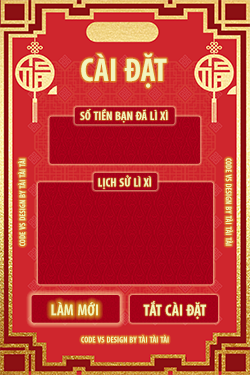
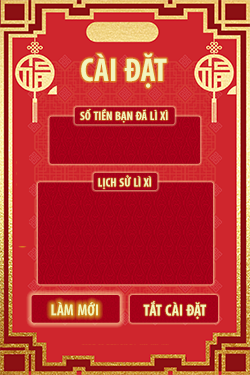
edit rule vong quay

Changed region(s): [[0.308, 0.88, 0.7, 0.9387], [0.896, 0.4107, 0.952, 0.6747], [0.056, 0.4107, 0.112, 0.6747]]

diff --git a/index.html b/index.html
@@ -10,7 +10,7 @@
    <head>
       <meta http-equiv="Content-Type" content="text/html; charset=utf-8">
       <meta name="viewport" content="width=device-width, initial-scale=1">
-      <title>Vòng quay lì xì 2020 by GrouSrlpPrsc</title>
+      <title>Vòng quay lì xì 2023</title>
       <link rel='stylesheet' href='https://fonts.googleapis.com/css?family=Francois+One&amp;display=swap'>
       <link rel='stylesheet' href='css/sweetalert.css'>
       <link rel='stylesheet' href='css/custom.css'>
@@ -23,9 +23,10 @@
   <div class="before" style="z-index: 9999"></div>
   <div class="after"></div>
 </div>
-   <body onload="nhappass()">
+  <body>
+   <!-- <body onload="nhappass()"> -->
       <div class="topheader">
-         <img class="responsive" style="z-index:99;top:50px;" src="img/hea2.png"/>
+         <img width="250" height="250" class="responsive" style="z-index:99;top:30px;" src="img/header11.png"/>
       </div>
 
       <div id="caidat">
@@ -33,14 +34,14 @@
       <div class="sotiendalixi" id="sotiendalixi"></div>
       <div class="lichsulixi" id="lichsulixi"></div>
       <div class="buttontatpopup" onClick="tatpopup()" ></div>
-      <div class="buttonlammoi" id="lammoi" onClick="lammoi()"></div>
+      <div class="buttonlammoi" id="lammoi" onClick="lammoiHandle()"></div>
       <div class="nenpopup"></div>
       </div>
 
       <div id="popupnhantien">
       <img id="popuptien"src="img/popupnhantien.png"/>
       <div class="sotienpopupnhantien" id="sotienpopupnhantien"><img id="xuatsotienpopup"></img></div>
-      <div class="lammoipopupnhantien" id="lammoi" onClick="lammoi()"></div>
+      <div class="lammoipopupnhantien" id="lammoi" onClick="lammoiHandle()"></div>
       <div class="nenpopup"></div>
       </div>
 
@@ -52,20 +53,20 @@
       </div>
 
       <img class="responsive2" style="position:fixed;z-index:99;top:0px;right:0px" src="img/hea1.png"/>
-      <div style="position:fixed;z-index:99;bottom:-50px;left:0;width:100%;height:500px;background:url(img/bot1.png) repeat-x bottom left;"></div>
-      <img class="responsive3" style="position:fixed;z-index:99;bottom:20px;left:20px" src="img/bot2.png"/>
-      <div class="nutcaidat" style="position:fixed;bottom:0px;left:20px" onClick="mopopup()"></div>
+      <div style="display:none;position:fixed;z-index:99;bottom:-50px;left:0;width:100%;height:500px;background:url(img/bot1.png) repeat-x bottom left;"></div>
+      <img class="responsive3" style="position:fixed;z-index:99;bottom:50px;left:20px;" src="img/cat4_4.png"/>
+      <div class="nutcaidat" style="display:none;position:fixed;bottom:0px;left:20px" onClick="mopopup()"></div>
       <input type="range" id="manhornhe" style="position:fixed;bottom:2px;right:20px;z-index: 999" onchange="laypower()" min="5" step="0.01" max="20" value="13">
 
-      <img style="position:fixed;z-index:99;top:2px;left:1px" src="img/banglixi.png"/>
+      <img style="position:fixed;z-index:99;top:2px;left:1px;display:none" src="img/banglixi.png"/>
       <div id="annhantien" style="display: none;">
       <img class="buttonnhantien" style="position:fixed;z-index:99;top:153px;left:1px;cursor: pointer;" src="img/nhantien.png" onclick="nhantien()" />
       <img style="position:fixed;z-index:99;top:183px;left:24px;" src="img/muiten.gif"/>
       </div>
 
-      <div style="position:fixed;z-index:999;top:37px;left:40px;text-shadow: 2px 2px 5px #f7ff29;color: #f2f4be;" id="xuatluotquay"></div>
+      <div style="display:none;position:fixed;z-index:999;top:37px;left:40px;text-shadow: 2px 2px 5px #f7ff29;color: #f2f4be;" id="xuatluotquay"></div>
 
-      <img style="position:fixed;z-index:999;top:105px;left:9px" id="xuatsotien"></img>
+      <img style="display:none;position:fixed;z-index:999;top:105px;left:9px" id="xuatsotien"></img>
 
       <audio id="votay"><source src="sound/votay.mp3" type="audio/mpeg"></audio>
       <audio id="matluot"><source src="sound/matluot.mp3" type="audio/mpeg"></audio>
@@ -73,7 +74,7 @@
        
    </body>
    <script>
-    var matkhau = "mycode";
+    var matkhau = "";
     var solanquay = 5;
       // Sau khi load trang sẽ yêu cầu nhập mật khẩu
       function nhappass() {
@@ -140,58 +141,82 @@ $( ".lammoipopupnhantien" ).hover(
       let theWheel = new Winwheel({
           'outerRadius': 220, // Bán kính ngoài
           'innerRadius': 0, // Size lỗ trung tâm
-          'textFontSize': 24, // Size chữ
+          'textFontSize': 12, // Size chữ
           'textOrientation': 'horizontal', // Chữ nằm ngang
           'textAlignment': 'outer', // Căn chỉnh văn bản ra bên ngoài bánh xe.
-          'numSegments': 8, // Số ô
+          'numSegments': 12, // Số ô
           'responsive': true,
           'segments': [{
-              'fillStyle': '#910f06',
-              'text': 'Ô mất lượt',
-              'size': winwheelPercentToDegrees(24),
-              'textFontSize': 30,
-              'textFillStyle': '#ffffff'
-          }, {
-              'fillStyle': '#ab6f03',
-              'text': '1.000 VNĐ',
-              'size': winwheelPercentToDegrees(20),
-              'textFontSize': 28,
-              'textFillStyle': '#ffffff'
-          }, {
-              'fillStyle': '#910f06',
-              'text': '2.000 VNĐ',
-              'size': winwheelPercentToDegrees(15),
-              'textFontSize': 26,
-              'textFillStyle': '#ffffff'
-          }, {
-              'fillStyle': '#ab6f03',
-              'text': '5.000 VNĐ',
-              'size': winwheelPercentToDegrees(15),
-              'textFontSize': 24,
-              'textFillStyle': '#ffffff'
-          }, {
-              'fillStyle': '#910f06',
-              'text': '10.000 VNĐ',
-              'size': winwheelPercentToDegrees(12),
-              'textFontSize': 22,
-              'textFillStyle': '#ffffff'
-          }, {
-              'fillStyle': '#ab6f03',
-              'text': '20.000 VNĐ',
-              'size': winwheelPercentToDegrees(10),
-              'textFontSize': 20,
-              'textFillStyle': '#ffffff'
-          }, {
-              'fillStyle': '#910f06',
+              'fillStyle': '#33BEFF',
               'text': '50.000 VNĐ',
-              'size': winwheelPercentToDegrees(3),
-              'textFontSize': 18,
+              'size': winwheelPercentToDegrees(8.5),
+              'textFontSize': 25,
+              'textFillStyle': '#ffffff'
+          },{
+            'fillStyle': '#33BEFF',
+              'text': '50.000 VNĐ',
+              'size': winwheelPercentToDegrees(8.5),
+              'textFontSize': 25,
+              'textFillStyle': '#ffffff'
+          },{
+            'fillStyle': '#33BEFF',
+              'text': '50.000 VNĐ',
+              'size': winwheelPercentToDegrees(8.5),
+              'textFontSize': 25,
+              'textFillStyle': '#ffffff'
+          },{
+            'fillStyle': '#33BEFF',
+              'text': '50.000 VNĐ',
+              'size': winwheelPercentToDegrees(8.5),
+              'textFontSize': 25,
               'textFillStyle': '#ffffff'
           }, {
-              'fillStyle': '#ab6f03',
-              'text': '100.000 VNĐ',
-              'size': winwheelPercentToDegrees(3),
-              'textFontSize': 16,
+            'fillStyle': '#33BEFF',
+              'text': '50.000 VNĐ',
+              'size': winwheelPercentToDegrees(8.5),
+              'textFontSize': 25,
+              'textFillStyle': '#ffffff'
+          },{
+              'fillStyle': '#910f06',
+              'text': '500.000 VNĐ',
+              'size': winwheelPercentToDegrees(7.5),
+              'textFontSize': 25,
+              'textFillStyle': '#ffffff'
+          },{
+            'fillStyle': '#33BEFF',
+              'text': '50.000 VNĐ',
+              'size': winwheelPercentToDegrees(8.5),
+              'textFontSize': 25,
+              'textFillStyle': '#ffffff'
+          },{
+            'fillStyle': '#33BEFF',
+              'text': '50.000 VNĐ',
+              'size': winwheelPercentToDegrees(8.5),
+              'textFontSize': 25,
+              'textFillStyle': '#ffffff'
+          },{
+            'fillStyle': '#33BEFF',
+              'text': '50.000 VNĐ',
+              'size': winwheelPercentToDegrees(8.5),
+              'textFontSize': 25,
+              'textFillStyle': '#ffffff'
+          },{
+            'fillStyle': '#33BEFF',
+              'text': '50.000 VNĐ',
+              'size': winwheelPercentToDegrees(8.5),
+              'textFontSize': 25,
+              'textFillStyle': '#ffffff'
+          },{
+            'fillStyle': '#33BEFF',
+              'text': '50.000 VNĐ',
+              'size': winwheelPercentToDegrees(8.5),
+              'textFontSize': 25,
+              'textFillStyle': '#ffffff'
+          }, {
+              'fillStyle': '#910f06',
+              'text': '500.000 VNĐ',
+              'size': winwheelPercentToDegrees(7.5),
+              'textFontSize': 25,
               'textFillStyle': '#ffffff'
           }],
           'animation': // Chỉ định hình động để sử dụng.
@@ -199,14 +224,14 @@ $( ".lammoipopupnhantien" ).hover(
               'type': 'spinToStop',
               'duration': 20, // Thời lượng tính bằng giây.
               'spins': 10, // Số vòng quay hoàn chỉnh mặc định.
-              'callbackFinished': alertPrize,
+              'callbackFinished': alertPrizeHandle,
               'callbackSound': playSound, // Chức năng gọi khi âm thanh đánh dấu được kích hoạt.
               'soundTrigger': 'pin', // Chỉ định các chân là để kích hoạt âm thanh, tùy chọn khác là 'phân đoạn'.
               'type'             : 'spinToStop',
               'duration'         : 6.4,
           },
           'pins': {
-              'number': 8, // Số lượng chân. Họ không gian đều xung quanh bánh xe.
+              'number': 12, // Số lượng chân. Họ không gian đều xung quanh bánh xe.
               'responsive': true,
               'fillStyle': 'silver',
               'outerRadius': 4,
@@ -270,6 +295,28 @@ $( ".lammoipopupnhantien" ).hover(
           dangquay.play();
           }
       }
+
+      function lammoiHandle() {
+        setTimeout(function() {
+          swal("Làm mới thành công!", "Xin mời anh chị tiếp theo!", "success");
+
+          document.getElementById("popupnhantien").style.display = "none"; // Tắt popup nhận tiền
+
+          theWheel.stopAnimation(false); // Dừng hình động
+          theWheel.rotationAngle = 0; // Đặt lại góc bánh xe về 0 độ.
+          theWheel.draw(); // Gọi draw để hiển thị các thay đổi cho bánh xe.
+      
+          $(".nutbatdau").css("background-image", "url(img/contro.png)"); // Hiển thị lại nút Quay
+      
+          document.getElementById("xuatluotquay").innerHTML = solanquay;
+      
+          wheelSpinning = false; // Đặt lại thành false thành các nút nguồn và quay có thể được bấm lại.
+          document.getElementById("annhantien").style.display = "none"; // Ẩn nút nhận tiền
+          document.getElementById("xuatsotien").src =""; // Xoá ảnh tiền
+      
+          dem = 0;
+          }, 500);
+      }
       
       // -------------------------------------------------------
       // Sau khi nhấp vào nút làm mới
@@ -314,6 +361,15 @@ $( ".lammoipopupnhantien" ).hover(
                       dem = 0;
                   }, 2000);
               });
+      }
+
+      function alertPrizeHandle(indicatedSegment) {
+        tiendalixi=indicatedSegment.text.replace(".000 VNĐ", "");
+        votay.play(); // Bật nhạc vỗ tay
+        document.getElementById("annhantien").style.display = ""; // Hiển thị nút nhận tiền
+        document.getElementById("xuatsotien").src = "img/" + indicatedSegment.text.replace(".000 VNĐ", "") + "k.jpg"; // Xuất ảnh tiền
+        swal("Tết ấm no!", "Bạn nhận được " + indicatedSegment.text +"!", "success");
+        nhantien()
       }
 
       // -------------------------------------------------------
